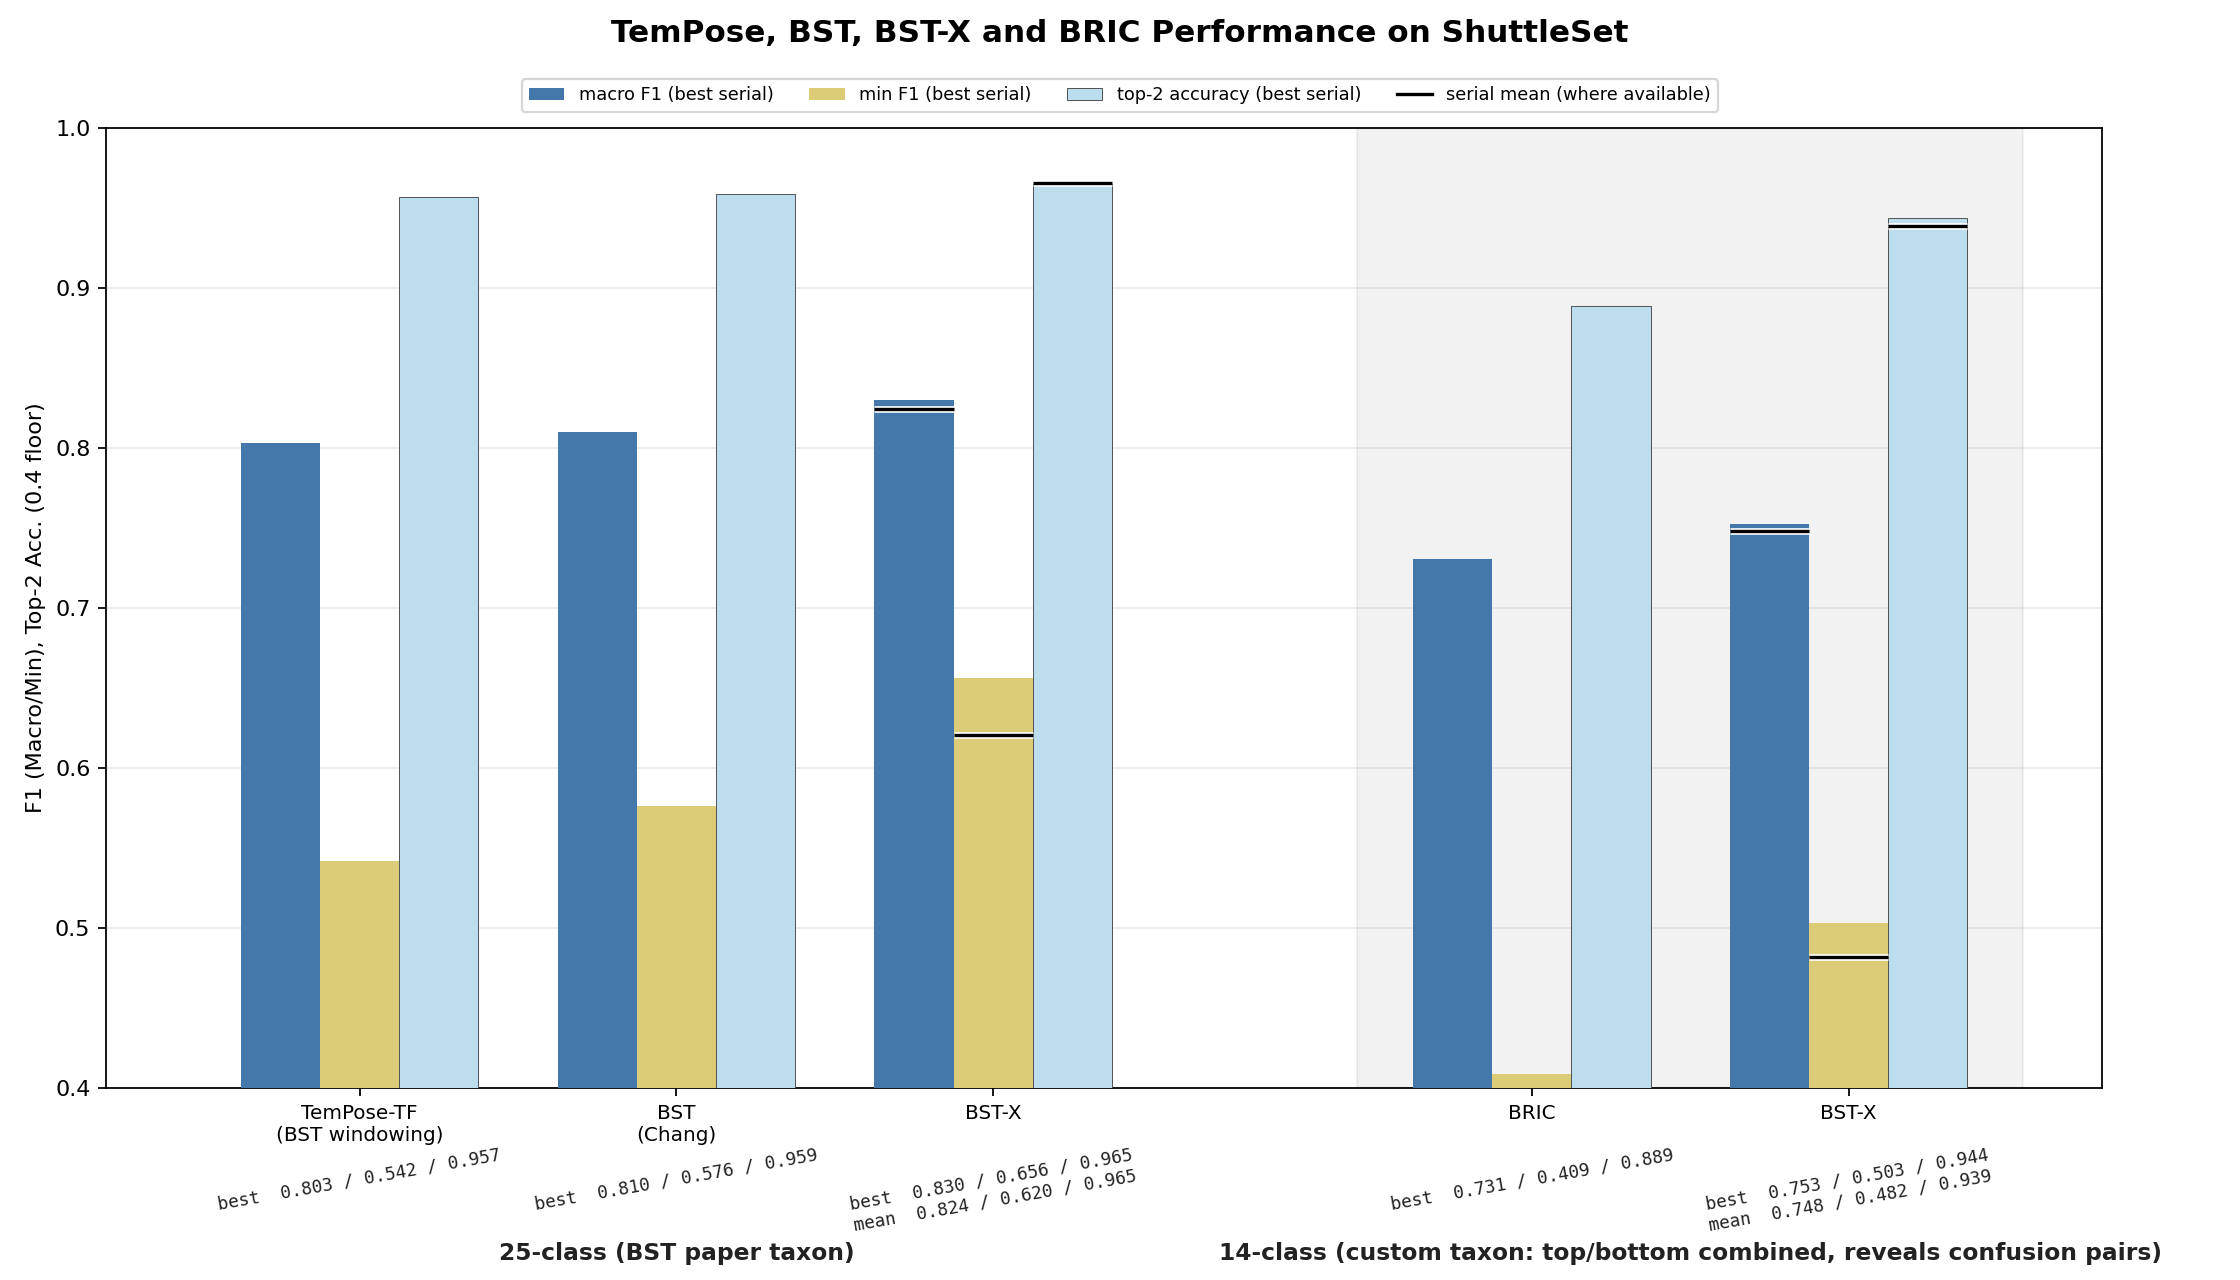
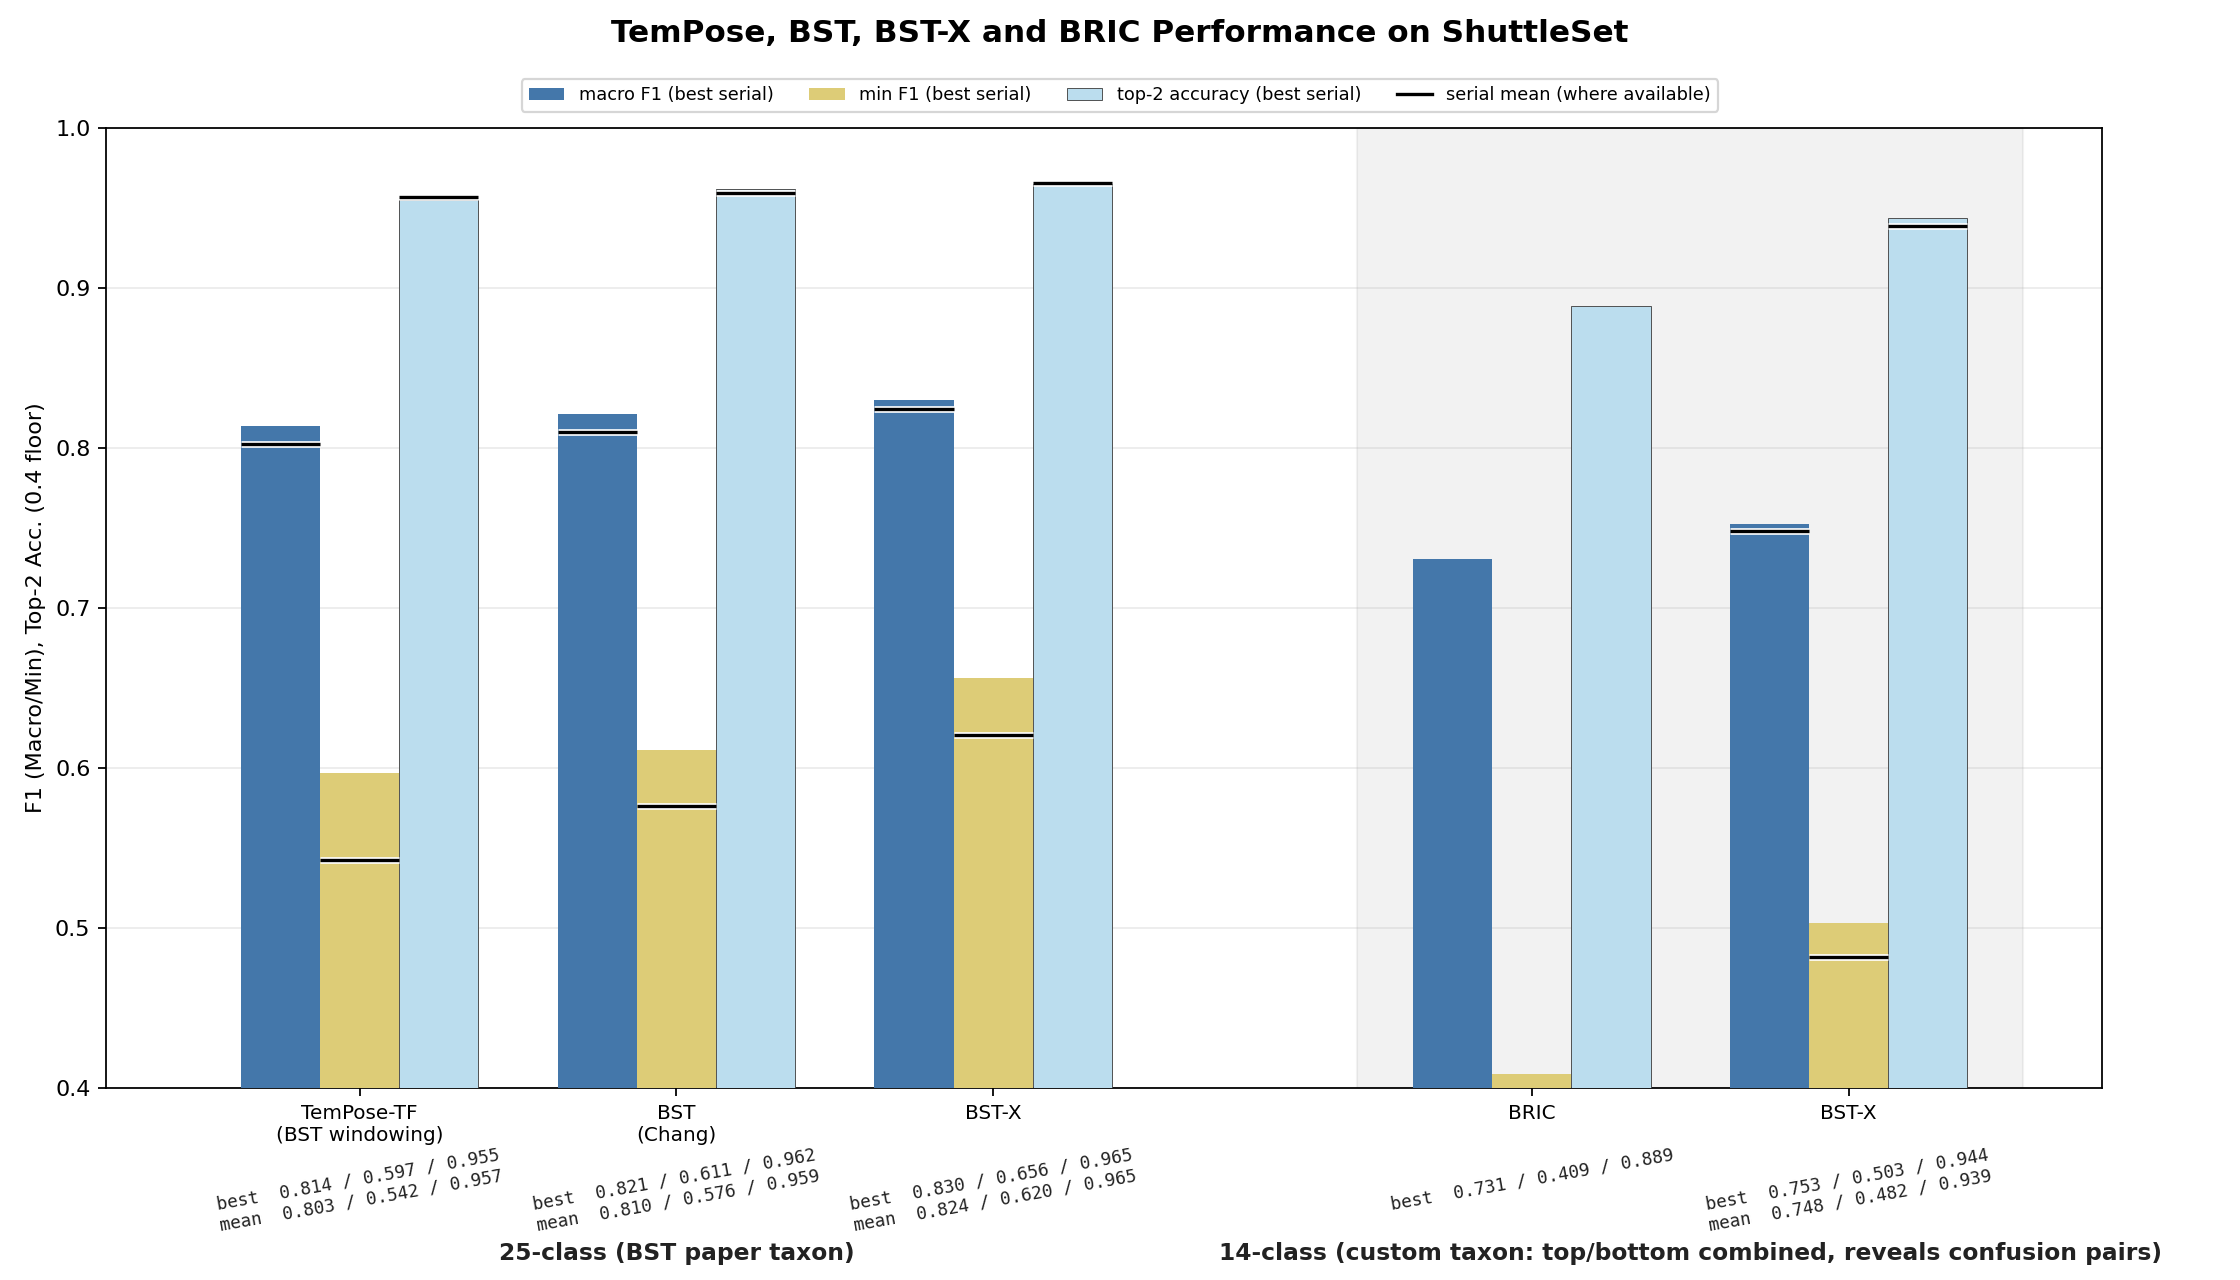
Updated README for BST-paper mean vs best results. Updated associated plotting scripts.

diff --git a/scripts/plots/trajectory_chart_macro_and_min.py b/scripts/plots/trajectory_chart_macro_and_min.py
@@ -2,8 +2,8 @@
 
 Sibling to ``trajectory_chart.py`` for the 2026-05-11 supervisor presentation.
 Two panels sharing x-axis:
-  - top: 5-serial mean. Both macro F1 and min wrist_smash F1.
-  - bottom: top-serial macro + min wrist_smash, with BST single-run refs.
+  - top: 5-serial mean macro F1 and min wrist_smash F1, with BST (Chang) mean refs.
+  - bottom: top-serial macro + min wrist_smash, with BST (Chang) best-serial refs.
 
 Macro is a filled circle, min wrist_smash a white-faced square. Colour stays as
 taxonomy on both, so each run sits as a circle / square pair stacked vertically.
@@ -57,12 +57,10 @@ FOOTNOTE = (
     "rather than raise it."
 )
 
-# BST paper single-run figures from arXiv:2502.21085 Table 1 (25-class, variable-length).
-# Tuple: label, macro F1, min wrist_smash F1.
-# Fixed-width variant dropped: it's not the preferred windowing strategy, theirs or ours.
-BST_REFS = [
-    ("BST 25-class best", 0.8097, 0.5762),
-]
+# BST-CG-AP (Chang's BST, 25-class merged_25): serial mean on the mean panel,
+# best serial on the top-serial panel. Tuple: macro F1, min wrist_smash F1.
+BST_REF_MEAN = (0.8097, 0.5762)
+BST_REF_BEST = (0.821, 0.611)
 
 
 def scatter_macro(ax, x, ys, colours):
@@ -91,7 +89,7 @@ def draw_panel(ax, x, macro_vals, min_vals, colours, ylabel):
 
 
 def draw_bst_refs(ax, x_text, mean_panel: bool) -> None:
-    """Horizontal BST single-run reference lines plus paired labels.
+    """Horizontal BST-CG-AP reference lines plus paired labels.
 
     Macro label sits just above the macro line; min wrist_smash label sits just
     below the min line, so the label pair frames the BST band rather than
@@ -100,20 +98,20 @@ def draw_bst_refs(ax, x_text, mean_panel: bool) -> None:
     :param ax: target axis
     :param x_text: x-coordinate (data space) where label text starts; pick a
         value past the last data point so labels live in the right margin.
-    :param mean_panel: True on the 5-serial-mean panel; appends "[best serial
-        only]" to flag that BST is a single-run figure, not 5-serial-comparable.
+    :param mean_panel: True on the 5-serial-mean panel (draws BST's serial mean);
+        False on the top-serial panel (draws BST's best serial).
     """
-    suffix = "  [best serial only]" if mean_panel else ""
+    descriptor = "mean" if mean_panel else "best"
+    macro, min_ws = BST_REF_MEAN if mean_panel else BST_REF_BEST
     offset = 0.008  # vertical gap between line and label, in F1-axis units
-    for label, macro, min_ws in BST_REFS:
-        ax.axhline(macro,  color=COLOUR["bst_ref"], linestyle="--", linewidth=1, alpha=0.7)
-        ax.axhline(min_ws, color=COLOUR["bst_ref"], linestyle="--", linewidth=1, alpha=0.55)
-        ax.text(x_text, macro + offset,
-                f"{label} macro ({macro:.3f}){suffix}",
-                fontsize=9, va="bottom", color=COLOUR["bst_ref"])
-        ax.text(x_text, min_ws - offset,
-                f"{label} min ws ({min_ws:.3f}){suffix}",
-                fontsize=9, va="top", color=COLOUR["bst_ref"])
+    ax.axhline(macro,  color=COLOUR["bst_ref"], linestyle="--", linewidth=1, alpha=0.7)
+    ax.axhline(min_ws, color=COLOUR["bst_ref"], linestyle="--", linewidth=1, alpha=0.55)
+    ax.text(x_text, macro + offset,
+            f"BST (Chang) {descriptor} macro ({macro:.3f})",
+            fontsize=9, va="bottom", color=COLOUR["bst_ref"])
+    ax.text(x_text, min_ws - offset,
+            f"BST (Chang) {descriptor} min ws ({min_ws:.3f})",
+            fontsize=9, va="top", color=COLOUR["bst_ref"])
 
 
 def main():
@@ -155,7 +153,7 @@ def main():
                    markeredgecolor="grey", markersize=8, markeredgewidth=1.4,
                    label="min wrist_smash F1 (open square)"),
         plt.Line2D([0], [0], color=COLOUR["bst_ref"], linestyle="--", linewidth=1.2,
-                   label="BST paper single-run reference"),
+                   label="BST (Chang) reference (mean / best per panel)"),
     ]
     ax_mean.legend(handles=legend_handles, loc="lower right", fontsize=8, ncols=2)
 

diff --git a/scripts/plots/bar_chart_overall_shuttleset_comparison.py b/scripts/plots/bar_chart_overall_shuttleset_comparison.py
@@ -1,7 +1,7 @@
 """Overall macro F1 / min F1 / top-2 accuracy across TemPose, BST, BST-X, BRIC.
 
 Sweep-asset style: blue / sand / pale-blue bars per entry for macro / min /
-top-2, black tick = serial mean (only on multi-seed internal runs). Per-entry
+top-2, black tick = serial mean (on multi-seed runs). Per-entry
 readouts sit directly under each cell name; shared section header below them
 names the taxonomy block. Y-axis floored at 0.40.
 
@@ -9,7 +9,7 @@ Internal bests pulled live from manifests:
   25-class: run_20260530_210600_435552 S1 (BST-25 / BST-baseline split)
   14-class: run_20260602_143618_156220 S2 (the cell used in the 14-class plot)
 BRIC: deployed registry entry rgb_shuttle (tcn) outgoing_only, seed 42.
-TemPose-TF and Chang's BST: literal values (paper / README).
+TemPose-TF and Chang's BST: best serial + serial mean (their 25-class runs).
 """
 from pathlib import Path
 import json
@@ -81,15 +81,23 @@ def load_bric(run_dir: str) -> dict:
     }
 
 
-def published(macro: float, min_f1: float, top2: float) -> dict:
-    """Literal numbers from a paper / README header — no mean line."""
+def measured(best: tuple[float, float, float],
+             mean: tuple[float, float, float]) -> dict:
+    """External multi-serial run: best-serial bar + serial-mean tick.
+
+    Each tuple is (macro_f1, min_f1, top2_accuracy); standard accuracy isn't
+    plotted. Used for Chang's BST and TemPose-TF, whose per-serial means are
+    known, so they carry a mean tick like the internal BST-X runs.
+    """
+    macro_best, min_best, top2_best = best
+    macro_mean, min_mean, top2_mean = mean
     return {
-        "macro_best": macro,
-        "min_best": min_f1,
-        "top2_best": top2,
-        "macro_mean": None,
-        "min_mean": None,
-        "top2_mean": None,
+        "macro_best": macro_best,
+        "min_best": min_best,
+        "top2_best": top2_best,
+        "macro_mean": macro_mean,
+        "min_mean": min_mean,
+        "top2_mean": top2_mean,
     }
 
 
@@ -97,8 +105,10 @@ def main():
     bric = load_bric("20260518_013238_rgb_shuttle-tcn-outgoing_only_une_merge_v1_nosides_42")
     bst_x_14 = load_bst_x_run("run_20260602_143618_156220")
     bst_x_25 = load_bst_x_run("run_20260530_210600_435552")
-    chang_bst = published(0.810, 0.576, 0.959)   # README, BST paper variable-length
-    tempose = published(0.803, 0.542, 0.957)     # TemPose-TF, BST windowing
+    # Best-serial bar + serial-mean tick, from the BST CG AP and TemPose-TF
+    # 25-class runs (BST paper taxon + windowing). Standard acc not plotted.
+    chang_bst = measured(best=(0.821, 0.611, 0.962), mean=(0.8097, 0.5762, 0.9594))  # BST CG AP, serial 2
+    tempose = measured(best=(0.814, 0.597, 0.955), mean=(0.8028, 0.5423, 0.9567))    # TemPose-TF, serial 7
 
     # 25-class first (TemPose -> BST -> BST-X chronological), then 14-class
     # (BRIC -> BST-X). Group labels are shared section headers below the bars.

diff --git a/scripts/plots/f1_runs_bar_charts.py b/scripts/plots/f1_runs_bar_charts.py
@@ -11,8 +11,8 @@ whose weights survived; serial 1 has no numeric suffix, 2-5 carry _{n}.pt). A bl
 tick marks the 5-serial mean for each metric. Best and mean figures are printed at
 30 degrees above each group. Log y, floored at 0.40, so the high cluster spreads out.
 
-Figures are read live from each run's manifest.yaml; only the published point is a
-literal (BST-CG-AP, bst_25: macro 0.8097, min 0.5762; treated as a best, no mean).
+Figures are read live from each run's manifest.yaml; only the BST-CG-AP point is
+literal (bst_25: best macro 0.821 / min 0.611, serial mean 0.8097 / 0.5762).
 """
 from pathlib import Path
 
@@ -39,7 +39,8 @@ C_MAC = "#4477AA"  # macro F1
 C_MIN = "#DDCC77"  # min F1
 MEAN_HALO = [pe.withStroke(linewidth=3.0, foreground="white")]
 
-PUBLISHED = {"mac": 0.8097, "min": 0.5762}  # BST-CG-AP, bst_25
+# BST-CG-AP, bst_25: best serial + serial mean (Chang's BST reproduction).
+PUBLISHED = {"mac_best": 0.821, "min_best": 0.611, "mac_mean": 0.8097, "min_mean": 0.5762}
 
 
 def _baseline_config_text() -> str:
@@ -102,15 +103,15 @@ def entry(run_id: str, group: str, line1: str, line2: str) -> dict:
 
 
 def published_entry(group: str, line1: str, line2: str) -> dict:
-    """The external BST-CG-AP reference: a best, no mean line."""
+    """The external BST-CG-AP reference: best-serial bars + serial-mean tick."""
     return {
         "group": group,
         "line1": line1,
         "line2": line2,
-        "mac_best": PUBLISHED["mac"],
-        "min_best": PUBLISHED["min"],
-        "mac_mean": None,
-        "min_mean": None,
+        "mac_best": PUBLISHED["mac_best"],
+        "min_best": PUBLISHED["min_best"],
+        "mac_mean": PUBLISHED["mac_mean"],
+        "min_mean": PUBLISHED["min_mean"],
         "published": True,
     }
 
@@ -175,7 +176,7 @@ def draw_figure(entries: list[dict], outpath: Path, suptitle: str, subtitle: str
 
         # 30-degree best/mean readout hovering above the taller bar.
         top = max(e["mac_best"], e["min_best"], FLOOR)
-        if e["published"]:
+        if e["mac_mean"] is None:
             txt = f"{e['mac_best']:.3f} / {e['min_best']:.3f}"
         else:
             txt = (f"best {e['mac_best']:.3f} / {e['min_best']:.3f}\n"

diff --git a/README.md b/README.md
@@ -15,21 +15,21 @@ Stage one built a stroke-type classifier across two deep learning architectures,
 
 ### Results on the original BST 25-class taxonomy
 
-TemPose-TF (Ibh et al. 2023) and BST (Chang 2025) are the two published benchmarks for badminton stroke classification on ShuttleSet. Test-split figures:
+TemPose-TF (Ibh et al. 2023) and BST (Chang 2025) are the two published benchmarks for badminton stroke classification on ShuttleSet. Test-split metrics below are 5-serial test-set means.
 
 | | macro F1 | min-class F1 | acc | top-2 |
 | --- | --- | --- | --- | --- |
 | TemPose-TF (BST windowing) | 0.803 | 0.542 | 0.823 | 0.957 |
 | BST paper, 25-class (Chang 2025) | 0.810 | 0.576 | 0.832 | 0.959 |
-| BST rebuild *with Inpaint*, 25-class (17 April) | 0.823 | 0.585 | 0.841 | 0.963 |
-| BST-X final best, 25-class (30 May) | **0.830** | **0.656** | **0.843** | **0.965** |
-| BST-X final best, 24-class (30 May) | 0.842 | 0.612 | 0.853 | 0.964 |
+| BST rebuild *with Inpaint*, 25-class (17 April) | 0.818 | 0.567 | 0.837 | 0.961 |
+| BST-X final, 25-class (30 May) | **0.824** | **0.620** | **0.841** | **0.965** |
+| BST-X final, 24-class (30 May) | 0.827 | 0.568 | 0.842 | 0.966 |
 | *Custom 14 class taxon and split (two classes uncollapsed, no top/bottom distinction, some fully held-out players)* |
-| BST-X, scheduling tuned, dropped keypoint frames recovered (30 April) | 0.747 | 0.403 | 0.770 | 0.940 |
-| BST-X, final best (02 June) | 0.753 | 0.503 | 0.773 | 0.944 |
-| BRIC, shuttle tcn outgoing only (18 May) | 0.731 | 0.409 | 0.758 | 0.889 |
+| BST-X, scheduling tuned, `sticky_anchor` frame recovery (30 April) | 0.742 | 0.375 | 0.767 | 0.938 |
+| BST-X, final (02 June) | 0.748 | 0.482 | 0.766 | 0.939 |
+| BRIC, shuttle tcn outgoing only (18 May) [single seed run] | 0.731 | 0.409 | 0.758 | 0.889 |
 
-The 24-class row is the 25-class set with the catch-all `unknown` class removed (a catch-all for mislabelled samples). The first rebuild came in above the BST paper because TrackNetV3 was rebuilt with InpaintNet where the paper ran without it. The final best on top of that adds the `sticky_anchor` pose recovery, the CDB-F1 loss, the augmentation framework, scheduling, and a weight-decay sweep.
+The 24-class row is the 25-class set with the catch-all `unknown` class removed (a catch-all for mislabelled samples). The first rebuild came in above the BST paper because TrackNetV3 was rebuilt with InpaintNet where the paper ran without it. The final model on top of that adds the `sticky_anchor` pose recovery, the CDB-F1 loss, the augmentation framework, scheduling, and a weight-decay sweep.
 
 ### Results on the project's core 14-class taxonomy
 